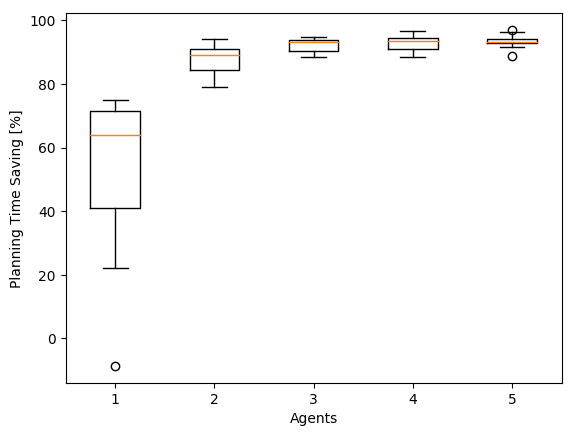
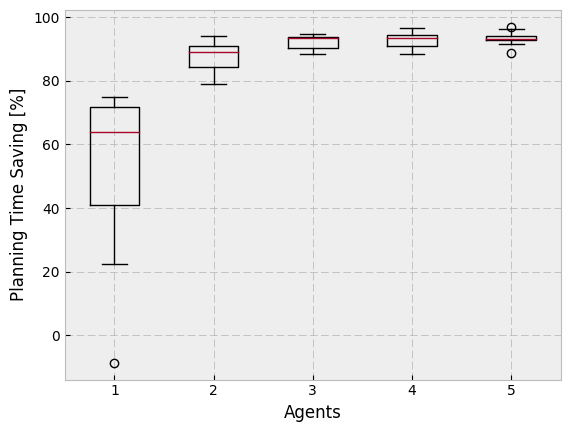
new figures

diff --git a/planner/cbs_ext/results/plot_figure_cache.py b/planner/cbs_ext/results/plot_figure_cache.py
@@ -12,7 +12,6 @@ import itertools
 import matplotlib.pyplot as plt
 
 plt.style.use('bmh')
-
 filename = 'figure_cache.pkl'
 
 try:
@@ -26,4 +25,13 @@ plt.boxplot(res.T)
 plt.xlabel('Agents')
 plt.ylabel('Planning Time Saving [%]')
 
-plt.show()
+plt.savefig('figure_cache.png', bbox_inches='tight')
+
+plt.figure()
+plt.boxplot(res2.T)
+plt.xlabel('Agents')
+plt.ylabel('Planning Time [s]')
+ax = plt.gca()
+ax.set_yscale('log')
+
+plt.savefig('figure_planningtime.png', bbox_inches='tight')

diff --git a/planner/cbs_ext/results/planner_figure_cache.py b/planner/cbs_ext/results/planner_figure_cache.py
@@ -9,6 +9,7 @@ import matplotlib.pyplot as plt
 
 from planner.cbs_ext.planner_test import get_data_random
 
+plt.style.use('bmh')
 fname = "/tmp/test.pkl"
 
 n_tests = 10
